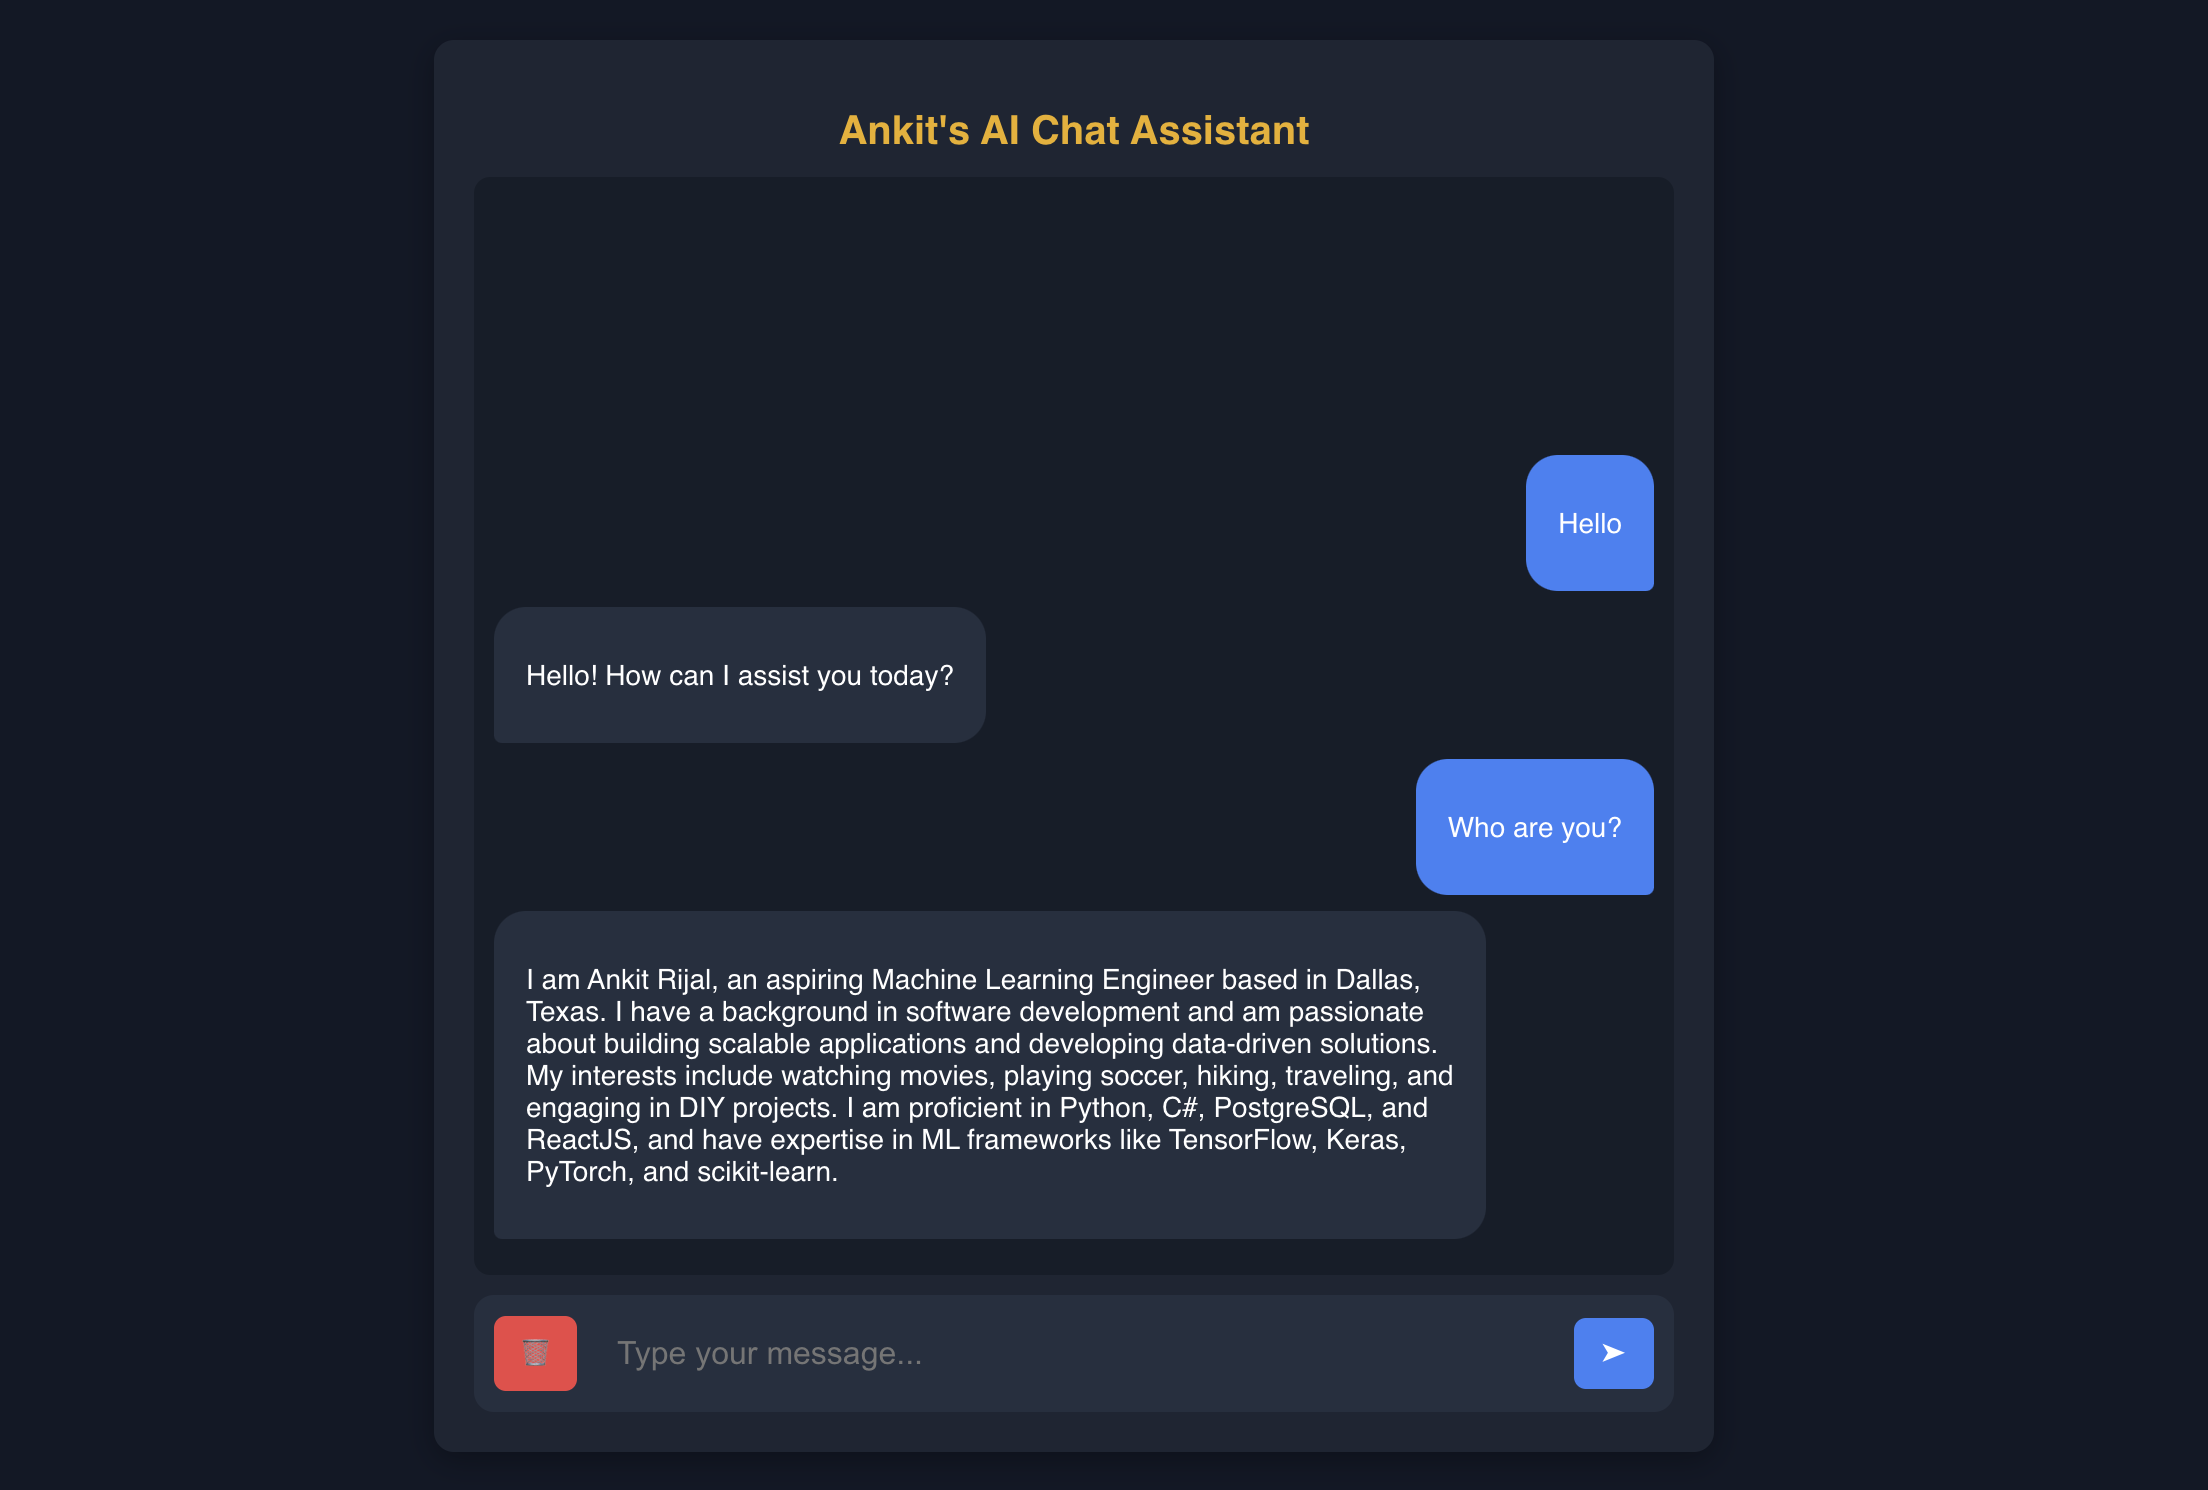
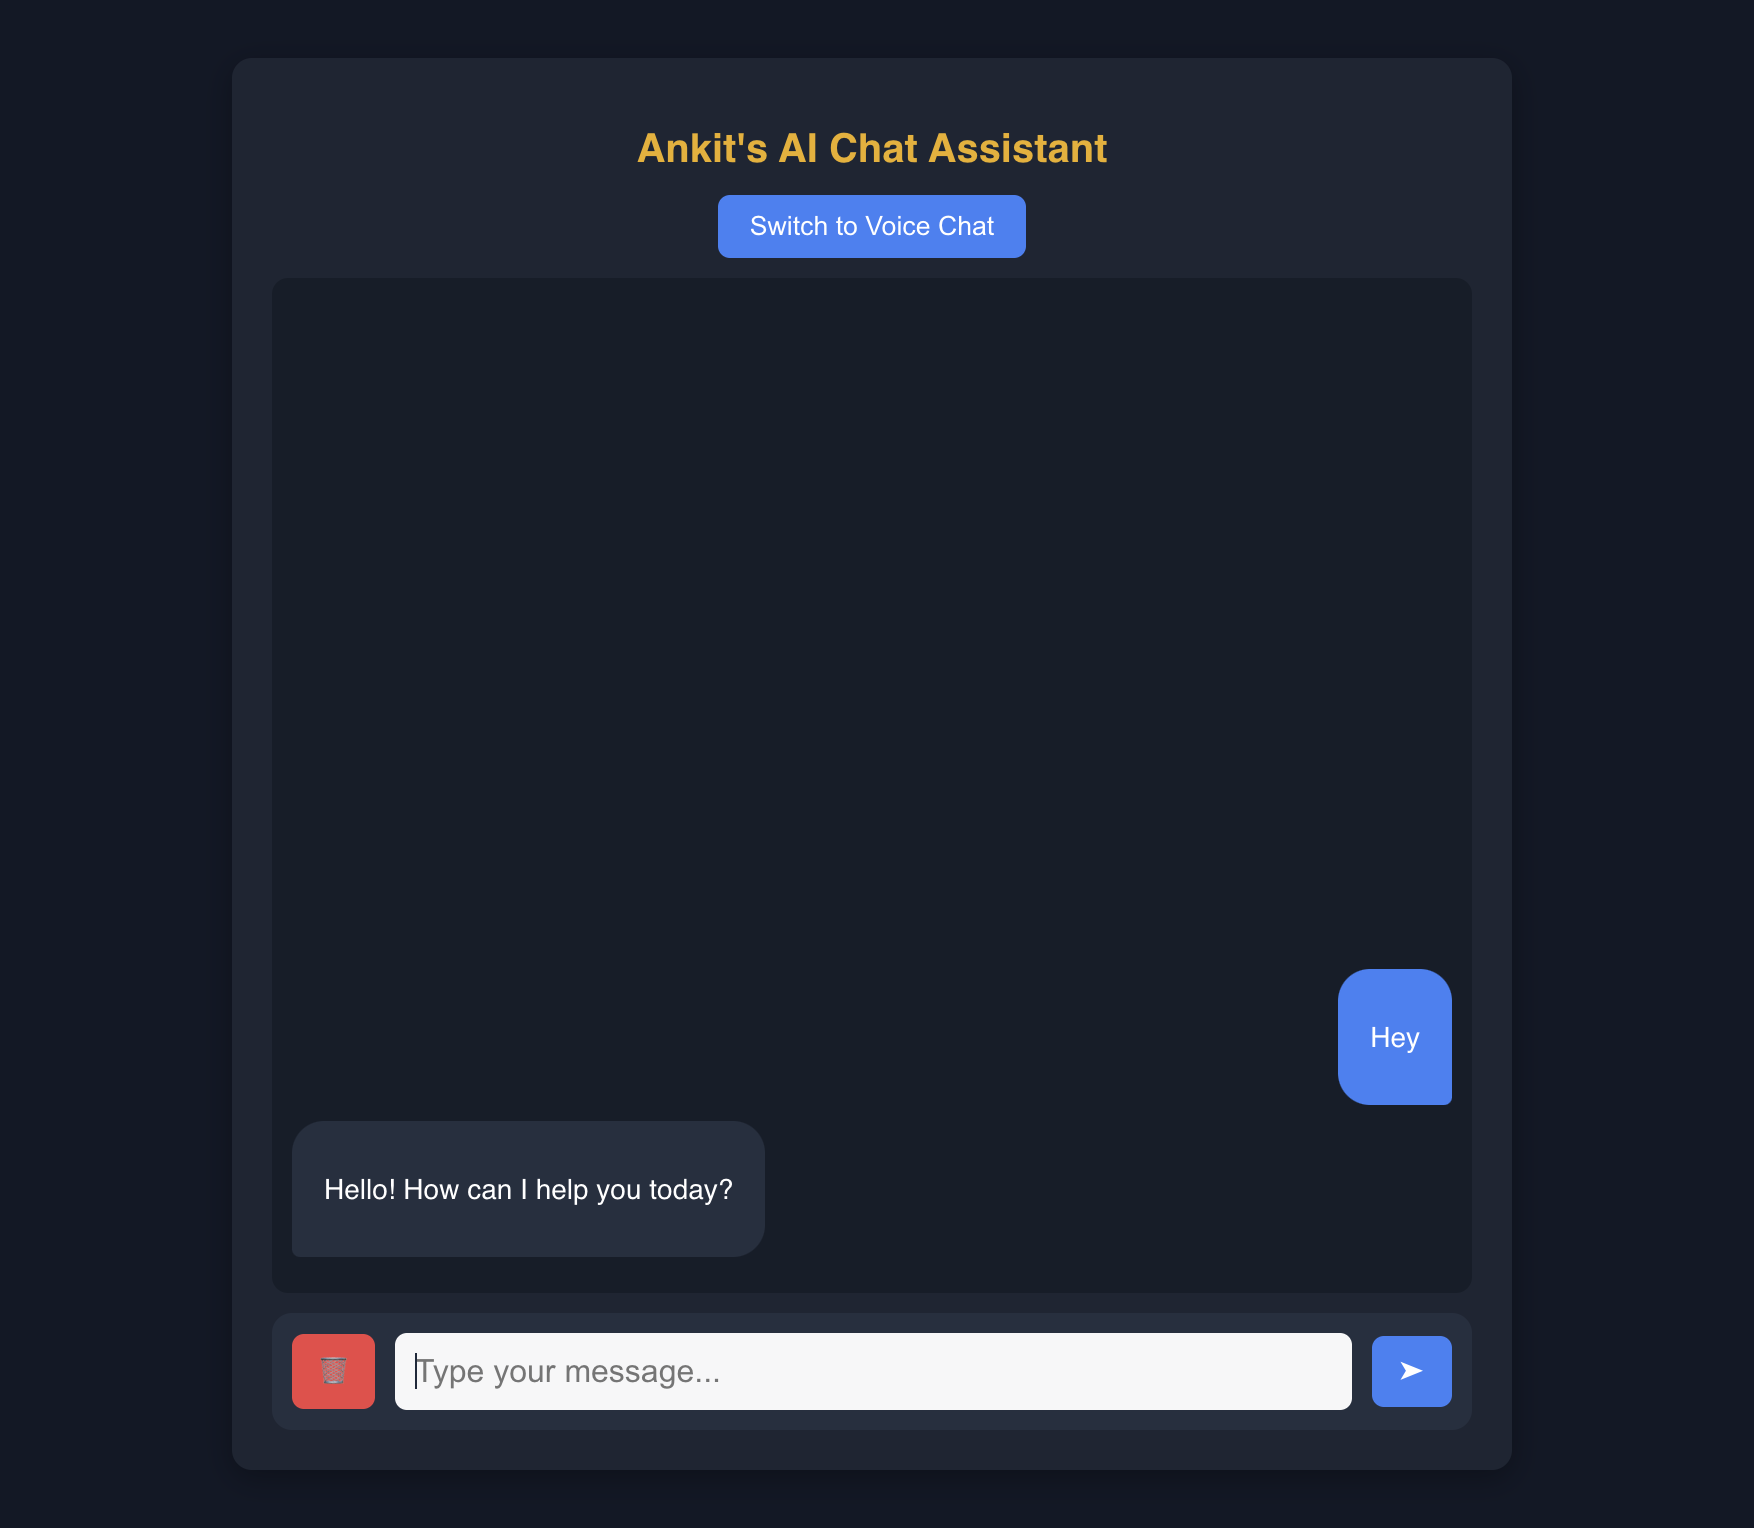
Updated Readme file

diff --git a/README.md b/README.md
@@ -1,23 +1,33 @@
 # AI Chatbot
 
-This is a custom AI chatbot application built using **React.js** for the frontend and **Flask** for the backend. The chatbot leverages **LangChain** for retrieval-augmented generation (RAG) using **ChromaDB** as a vector store, and it integrates with **Hugging Face** and **Grok AI** for embeddings and responses.
+This is a custom AI chatbot application built using **React.js** for the frontend and **Flask** for the backend. The chatbot leverages **LangChain** for retrieval-augmented generation (RAG) using **ChromaDB** as a vector store, and it integrates with **Hugging Face** and **Grok AI** for embeddings and responses. It now supports retaining chat history and switching between text-to-text and voice-to-voice chat modes.
 
 ## Features
+
+- **Contextual Chat History**:  
+  The application stores recent conversations in a local SQLite database so that your chat history is preserved and can be used to enhance context in subsequent interactions.
+
+- **Dual Interaction Modes**:
+
+  - **Text Chat**: Engage in traditional text-based conversations with a typewriter effect for responses.
+  - **Voice Chat**: Use voice commands with your browser’s SpeechRecognition API and listen to responses synthesized via a dedicated TTS endpoint powered by the Cartesia API.
 
 - Uses **ChromaDB** to retrieve relevant context from a knowledge base.
 - Implements **Hugging Face embeddings** for vector search.
 - Connects to **Grok AI** to generate responses.
-- Supports **real-time chatting** with a smooth UI experience.
-- Includes **typewriter effect** for chatbot responses.
-- **CORS-enabled Flask backend** to communicate with the frontend.
+- Provides a **CORS-enabled Flask backend** to seamlessly communicate with the React frontend.
 
 ---
 
 ## Screenshots
 
-![Chat Interface1](screenshots/chat1.png)
+![Text Chat Interface](screenshots/chat1.png)
 
-![Chat Interface2](screenshots/chat2.png)
+![Text Chat Demo](screenshots/chat2.gif)
+
+![Voice Chat Interface](screenshots/chat3.png)
+
+![Voice Chat Demo](screenshots/chat4.gif)
 
 ---
 
@@ -37,6 +47,7 @@ This is a custom AI chatbot application built using **React.js** for the fronten
 - **ChromaDB** (for vector storage)
 - **Hugging Face** (for embeddings API)
 - **Grok AI API** (for chatbot responses)
+- **Cartesia API** (for high-quality text-to-speech conversion)
 
 ---
 
@@ -46,8 +57,8 @@ This is a custom AI chatbot application built using **React.js** for the fronten
 
 - Node.js and npm (for frontend)
 - Python 3.8+ (for backend)
-- Virtual environment (`venv`) for Python (recommended)
-- API keys for **Hugging Face** and **Grok AI** stored in `api_key.json` in the backend.
+- A virtual environment (`venv`) for Python (recommended)
+- API keys for **Hugging Face**, **Grok AI**, and **Cartesia** stored in `api_key.json` in the backend.
 
 ### Backend Setup
 
@@ -56,6 +67,7 @@ This is a custom AI chatbot application built using **React.js** for the fronten
    ```sh
    git clone https://github.com/ankitrijal2054/AI_Chatbot.git
    cd AI-Chatbot
+
    ```
 
 2. Navigate to the backend directory:
@@ -82,7 +94,8 @@ This is a custom AI chatbot application built using **React.js** for the fronten
    ```json
    {
      "HUGGINGFACE_API_KEY": "your-huggingface-api-key",
-     "XAI_API_KEY": "your-grok-ai-api-key"
+     "XAI_API_KEY": "your-grok-ai-api-key",
+     "CARTESIA_API_KEY": "your-cartesia-api-key"
    }
    ```
 
@@ -119,16 +132,22 @@ This is a custom AI chatbot application built using **React.js** for the fronten
 ## Usage
 
 1. Open the React frontend (`http://localhost:3000`).
-2. Type a message in the input box and press **Enter** or click the send button.
-3. The chatbot will respond using retrieved knowledge and AI-generated text.
-4. Click the 🗑 button to clear the chat history.
+2. **Text Chat Mode:**
+   - Type your message in the input box and press Enter or click the send button.
+   - The chatbot will respond using retrieved knowledge and chat history and store the new conversation in the database.
+3. **Voice Chat Mode:**
+   - Click the "Switch to Voice Chat" button to enable voice mode. In this mode:
+   - Click "Click to Speak" to start voice recognition.
+   - Speak your query, and the chatbot will process it.
+   - Listen to the AI response synthesized through the TTS endpoint.
+4. To clear the chat history, click the 🗑 button in text chat mode. This action removes all stored conversations from both the UI and the backend database.
 
 ---
 
 ## Future Improvements
 
 - Deploy frontend & backend to **Railway**.
-- Add support for **memory-based conversations**.
+- Add support for more complex **memory-based conversations**.
 - Improve **error handling & logging**.
 
 ---
